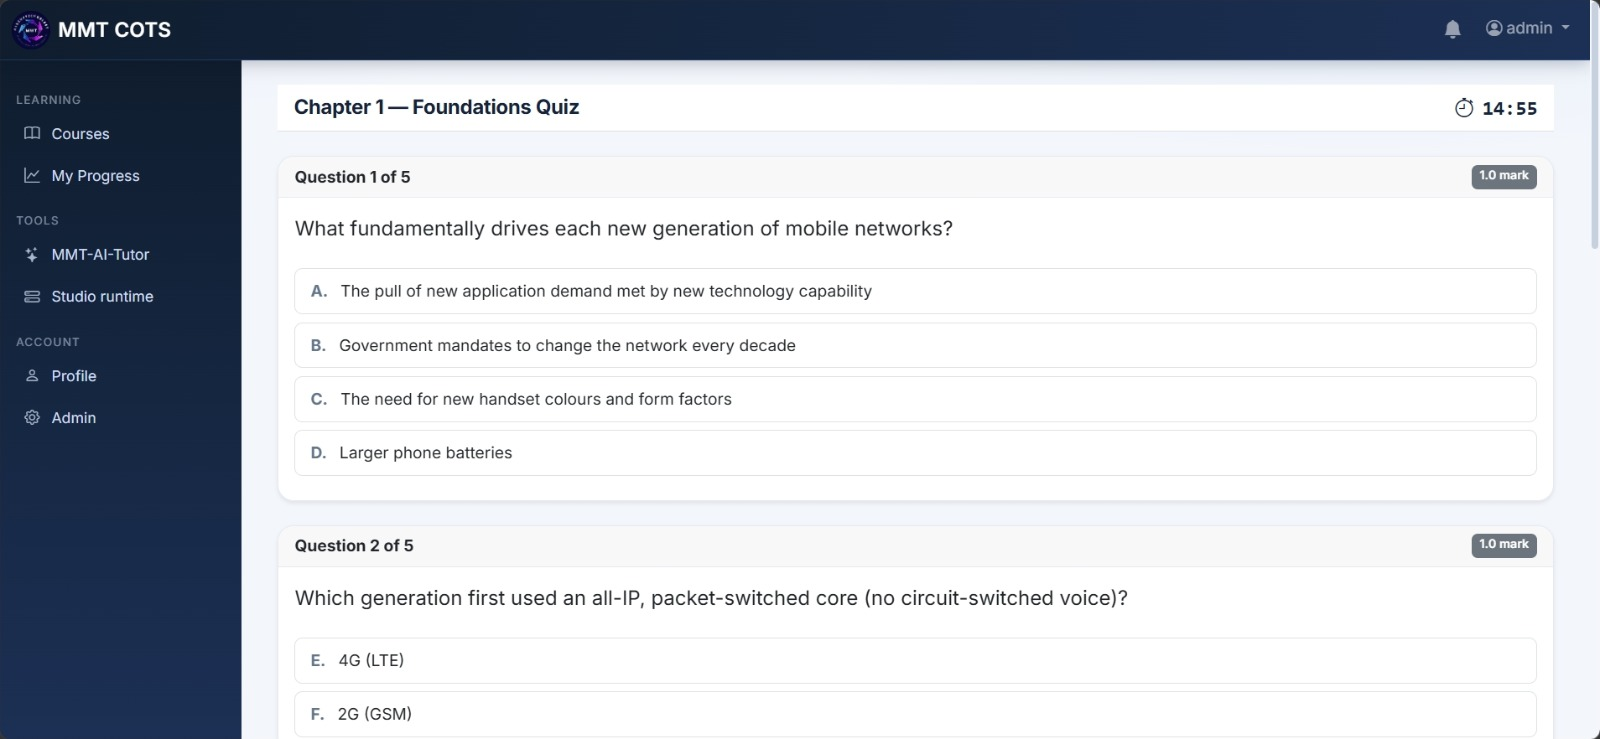
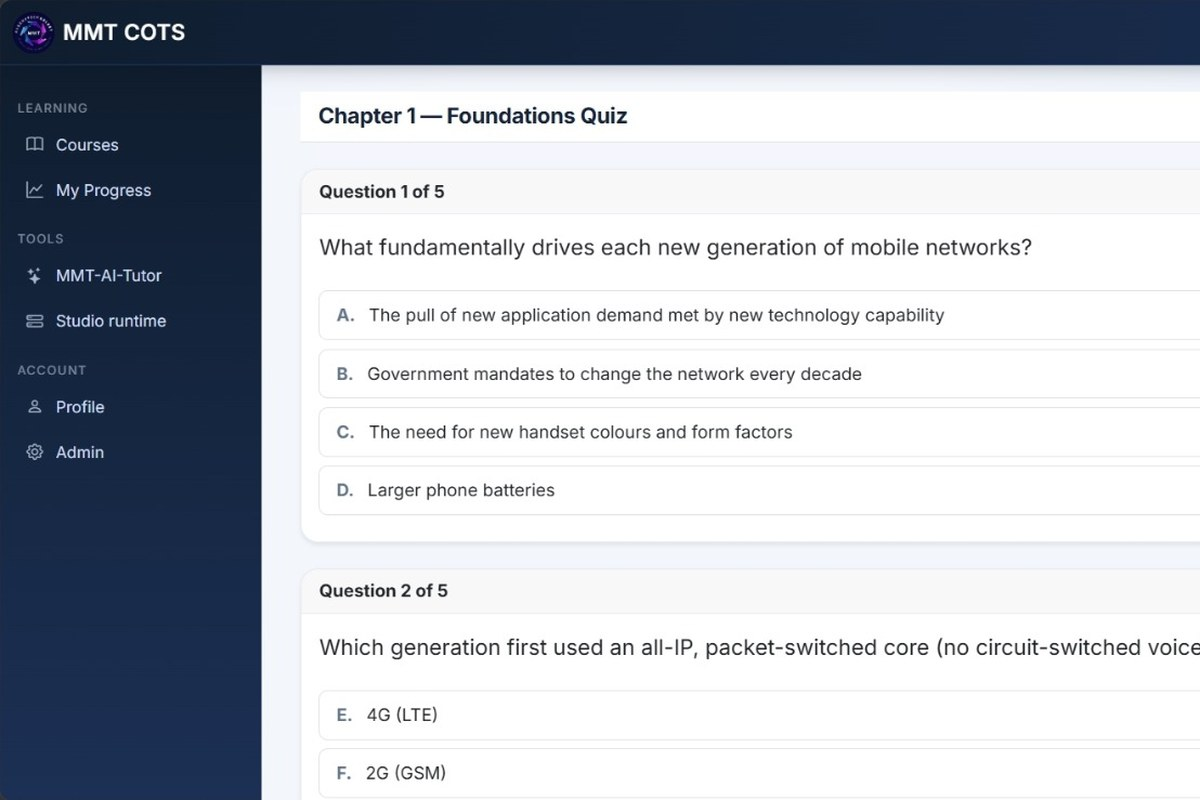
Crop Studio Academy gallery screenshots to a uniform 1200x800
The three "Inside the platform" screenshots had very different aspect
ratios (near-square, tall full-page, wide), making the gallery tiles
uneven. Crop all three to a uniform 3:2 (1200x800) — top-anchored so
each shows its header/key content, left-anchored for the wide quiz to
keep its sidebar.

diff --git a/src/app/5g-6g/studio-academy/page.tsx b/src/app/5g-6g/studio-academy/page.tsx
@@ -335,8 +335,8 @@ export default function StudioAcademyPage() {
                   <Image
                     src={s.src}
                     alt={`${s.title} — ${s.caption}`}
-                    width={1600}
-                    height={1200}
+                    width={1200}
+                    height={800}
                     className="w-full h-auto block group-hover:scale-[1.02] transition-transform duration-500"
                   />
                   <figcaption className="bg-white px-4 py-3">
